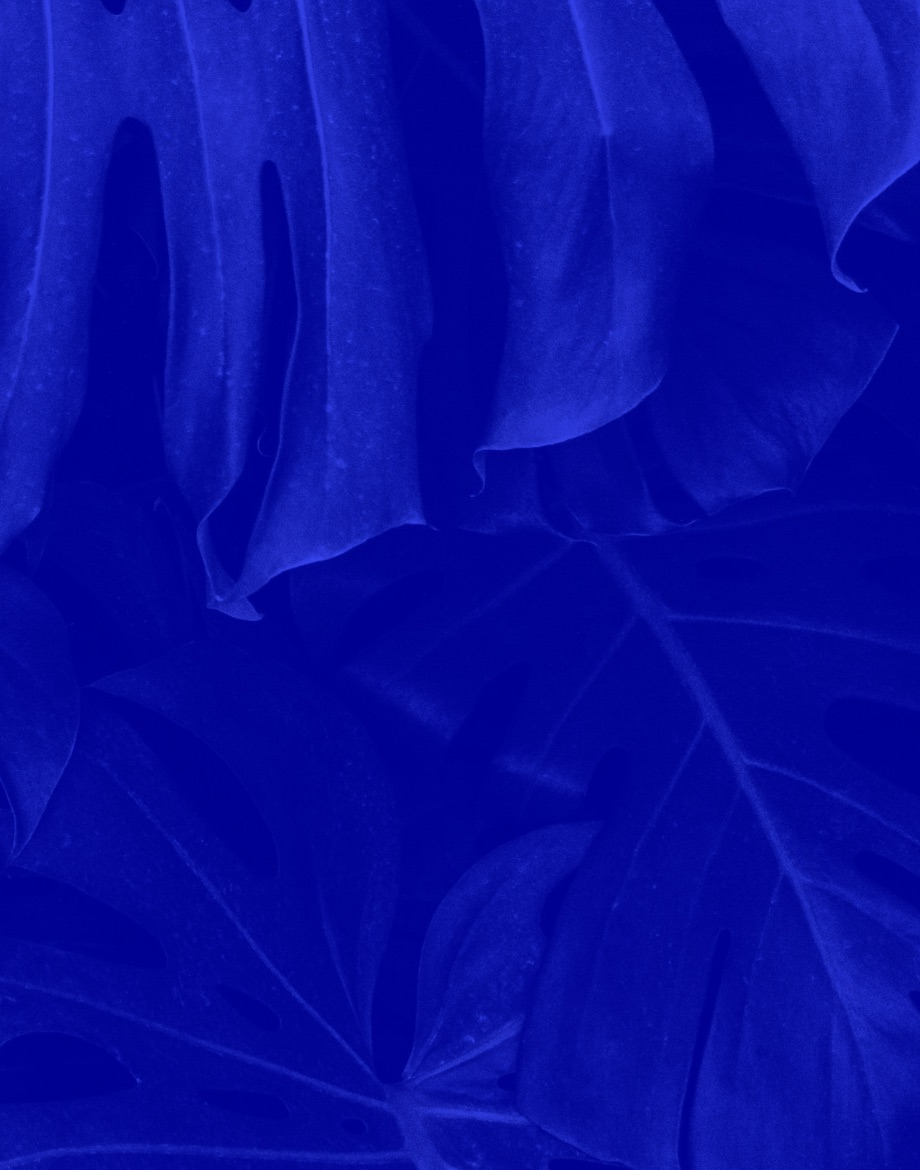
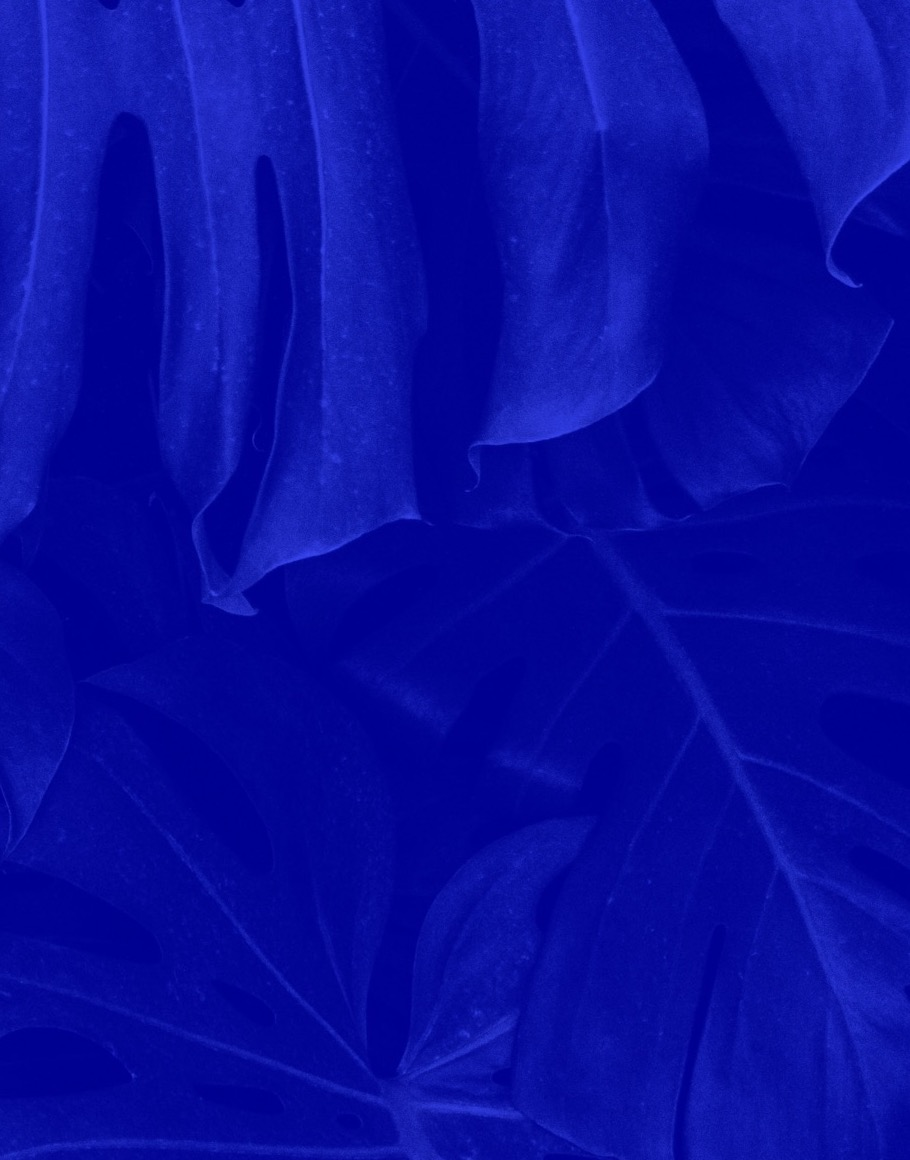
Pin question panel while long answers scroll; scroll-down arrow on cover; trim texture edges

diff --git a/assets/js/deck.js b/assets/js/deck.js
@@ -1,13 +1,16 @@
-// Arrow-key slide navigation, counter, progress bar, and #slide deep links.
+// Slide navigation: arrow keys page through long answers before moving on,
+// plus counter, progress bar, and #slide deep links.
 (function () {
 	var slides = Array.prototype.slice.call(document.querySelectorAll('.slide'));
 	var counter = document.querySelector('.counter');
 	var progress = document.querySelector('.progress');
-	var current = 0;
+	var current = -1;
+	var EDGE = 4; // px tolerance for "already at the edge"
 
 	function pad(n) { return n < 10 ? '0' + n : '' + n; }
 
 	function setActive(i) {
+		if (i === current) return;
 		current = i;
 		slides.forEach(function (s, j) { s.classList.toggle('is-active', j === i); });
 		if (counter) counter.textContent = pad(i + 1) + ' / ' + pad(slides.length);
@@ -16,10 +19,37 @@
 		if (id && location.hash !== '#' + id) history.replaceState(null, '', '#' + id);
 	}
 
-	function go(i) {
-		i = Math.max(0, Math.min(slides.length - 1, i));
-		slides[i].scrollIntoView({ behavior: 'smooth', block: 'start' });
-		setActive(i);
+	// Active slide = the last one whose top has passed 40% of the viewport.
+	function activeFromScroll() {
+		var line = window.innerHeight * 0.4, idx = 0;
+		slides.forEach(function (s, j) { if (s.getBoundingClientRect().top <= line) idx = j; });
+		return idx;
+	}
+
+	var reduceMotion = window.matchMedia('(prefers-reduced-motion: reduce)').matches;
+	function scrollToY(y) { window.scrollTo({ top: y, behavior: reduceMotion ? 'auto' : 'smooth' }); }
+	function slideTop(i) { return slides[i].getBoundingClientRect().top + window.scrollY; }
+
+	function next() {
+		var i = activeFromScroll(), r = slides[i].getBoundingClientRect(), vh = window.innerHeight;
+		// Long answer still has content below the fold: page down within it.
+		if (r.bottom > vh + EDGE) {
+			scrollToY(window.scrollY + Math.min(vh * 0.85, r.bottom - vh));
+		} else if (i < slides.length - 1) {
+			scrollToY(slideTop(i + 1));
+		}
+	}
+
+	function prev() {
+		var i = activeFromScroll(), r = slides[i].getBoundingClientRect(), vh = window.innerHeight;
+		// Scrolled into a long answer: page back up within it first.
+		if (r.top < -EDGE) {
+			scrollToY(window.scrollY - Math.min(vh * 0.85, -r.top));
+		} else if (i > 0) {
+			var p = slides[i - 1];
+			// Land at the end of a long previous answer, or the top of a short one.
+			scrollToY(slideTop(i - 1) + Math.max(0, p.offsetHeight - vh));
+		}
 	}
 
 	document.addEventListener('keydown', function (e) {
@@ -28,23 +58,33 @@
 		if (t === 'INPUT' || t === 'TEXTAREA') return;
 		switch (e.key) {
 			case 'ArrowRight': case 'ArrowDown': case 'PageDown': case ' ':
-				e.preventDefault(); go(current + 1); break;
+				e.preventDefault(); next(); break;
 			case 'ArrowLeft': case 'ArrowUp': case 'PageUp':
-				e.preventDefault(); go(current - 1); break;
-			case 'Home': e.preventDefault(); go(0); break;
-			case 'End': e.preventDefault(); go(slides.length - 1); break;
+				e.preventDefault(); prev(); break;
+			case 'Home': e.preventDefault(); scrollToY(0); break;
+			case 'End': e.preventDefault(); scrollToY(slideTop(slides.length - 1)); break;
 		}
 	});
 
-	// Keep state in sync when scrolling with a trackpad or mouse.
-	var io = new IntersectionObserver(function (entries) {
-		entries.forEach(function (en) {
-			if (en.isIntersecting) setActive(slides.indexOf(en.target));
-		});
-	}, { threshold: 0.55 });
-	slides.forEach(function (s) { io.observe(s); });
+	// In-page links (e.g. the cover's scroll-down arrow) scroll smoothly to their slide.
+	document.addEventListener('click', function (e) {
+		var a = e.target.closest('a[href^="#"]');
+		if (!a) return;
+		var target = document.getElementById(a.getAttribute('href').slice(1));
+		if (!target) return;
+		e.preventDefault();
+		scrollToY(target.getBoundingClientRect().top + window.scrollY);
+	});
+
+	var ticking = false;
+	window.addEventListener('scroll', function () {
+		if (ticking) return;
+		ticking = true;
+		requestAnimationFrame(function () { setActive(activeFromScroll()); ticking = false; });
+	}, { passive: true });
+	window.addEventListener('resize', function () { setActive(activeFromScroll()); });
 
 	var start = location.hash ? slides.findIndex(function (s) { return '#' + s.id === location.hash; }) : 0;
 	if (start > 0) slides[start].scrollIntoView();
-	setActive(Math.max(0, start));
+	setActive(start > 0 ? start : activeFromScroll());
 })();

diff --git a/assets/css/df.css b/assets/css/df.css
@@ -21,7 +21,7 @@
 
 * { box-sizing: border-box; margin: 0; padding: 0; }
 
-html { scroll-snap-type: y mandatory; scroll-behavior: smooth; }
+html { scroll-snap-type: y proximity; }
 
 body {
 	background: var(--paper);
@@ -43,7 +43,7 @@ a { color: var(--blue); }
 	min-height: 100svh;
 	scroll-snap-align: start;
 	display: grid;
-	overflow: hidden;
+	overflow-x: clip;
 }
 
 /* DF monogram */
@@ -69,14 +69,14 @@ a { color: var(--blue); }
 /* Blue divider textures (from the PDF's divider slides) */
 .leaf {
 	background-color: var(--blue);
-	background-image: url("../../images/df/cover-leaf.jpg");
+	background-image: url("../../images/df/cover-leaf.jpg?v=2");
 	background-size: cover;
 	background-position: center;
 	color: #fff;
 }
-.leaf.t-bark { background-image: url("../../images/df/bark.jpg"); }
-.leaf.t-anthurium { background-image: url("../../images/df/anthurium.jpg"); }
-.leaf.t-monstera-xl { background-image: url("../../images/df/monstera-xl.jpg"); }
+.leaf.t-bark { background-image: url("../../images/df/bark.jpg?v=2"); }
+.leaf.t-anthurium { background-image: url("../../images/df/anthurium.jpg?v=2"); }
+.leaf.t-monstera-xl { background-image: url("../../images/df/monstera-xl.jpg?v=2"); }
 
 /* ---------- Cover ---------- */
 
@@ -97,15 +97,26 @@ a { color: var(--blue); }
 	font-size: clamp(1.4rem, 2.6vw, 2.8rem);
 	margin-top: 3.5rem;
 }
-.cover .hint {
-	font-family: var(--font-sub);
-	font-size: clamp(1rem, 1.6vw, 1.6rem);
-	margin-top: 4rem;
-	display: flex;
-	align-items: center;
-	gap: 1.25rem;
+.scroll-down {
+	position: absolute;
+	left: 50%;
+	bottom: clamp(1.5rem, 4vh, 3rem);
+	width: 3.25rem;
+	height: 3.25rem;
+	margin-left: -1.625rem;
+	display: grid;
+	place-items: center;
+	color: #fff;
+	border: 2px solid rgba(255, 255, 255, 0.85);
+	border-radius: 50%;
+	animation: nudge 2.2s ease-in-out infinite;
 }
-.cover .hint .arrow { font-size: 2.2em; line-height: 1; }
+.scroll-down svg { width: 1.3rem; height: 1.3rem; }
+.scroll-down:hover, .scroll-down:focus-visible { background: #fff; color: var(--blue); outline: none; }
+@keyframes nudge {
+	0%, 100% { transform: translateY(0); }
+	50% { transform: translateY(8px); }
+}
 
 /* ---------- Intro ---------- */
 
@@ -143,6 +154,14 @@ h2, .headline {
 
 .qa {
 	grid-template-columns: minmax(0, 38%) minmax(0, 62%);
+	align-items: start;
+}
+
+.qa > header {
+	position: sticky;
+	top: 0;
+	height: 100vh;
+	height: 100svh;
 }
 
 .qa > header {
@@ -164,7 +183,9 @@ h2, .headline {
 }
 
 .qa > .content {
-	padding: calc(var(--pad) * 0.9) calc(var(--pad) * 1.1) var(--pad);
+	min-height: 100vh;
+	min-height: 100svh;
+	padding: calc(var(--pad) * 1.4) calc(var(--pad) * 1.1) calc(var(--pad) * 1.2);
 	display: flex;
 	flex-direction: column;
 	gap: 1.4rem;
@@ -249,7 +270,7 @@ ul.arrows li::before { content: "→"; position: absolute; left: 0; color: var(-
 .slide.is-active .reveal:nth-child(3) { transition-delay: 0.16s; }
 .slide.is-active .reveal:nth-child(4) { transition-delay: 0.24s; }
 @media (prefers-reduced-motion: reduce) {
-	html { scroll-behavior: auto; }
+	.scroll-down { animation: none; }
 	.slide .reveal { opacity: 1; transform: none; transition: none; }
 }
 
@@ -261,10 +282,11 @@ ul.arrows li::before { content: "→"; position: absolute; left: 0; color: var(-
 	.cover, .closing { min-height: 100svh; padding: 5rem 1.25rem; }
 	.intro { grid-template-columns: 1fr; padding: 5rem 1.25rem 3rem; }
 	.qa { grid-template-columns: 1fr; }
-	.qa > header { padding: 4.5rem 1.25rem 2.5rem; }
-	.qa > .content { padding: 2.5rem 1.25rem 4rem; }
+	.qa > header { position: static; height: auto; padding: 4.5rem 1.25rem 2.5rem; }
+	.qa > .content { min-height: 0; padding: 2.5rem 1.25rem 4rem; }
 	.counter { display: none; }
 	.slide .reveal { opacity: 1; transform: none; }
+	.scroll-down { animation: none; }
 }
 
 @media print {

diff --git a/index.html b/index.html
@@ -21,7 +21,7 @@
 			<span class="df-mark on-blue">DF</span>
 			<h1 class="reveal">David Fast<br />Interview<br />Presentation</h1>
 			<p class="sub reveal">Interaction Design Foundation</p>
-			<p class="hint reveal">Please Use Arrow Keys to Navigate <span class="arrow" aria-hidden="true">⟶</span></p>
+			<a class="scroll-down" href="#intro" aria-label="Scroll down"><svg viewBox="0 0 24 24" fill="none" stroke="currentColor" stroke-width="2.4" stroke-linecap="round" stroke-linejoin="round" aria-hidden="true"><path d="M12 4v15M5 12l7 7 7-7"/></svg></a>
 		</section>
 
 		<!-- Intro -->
